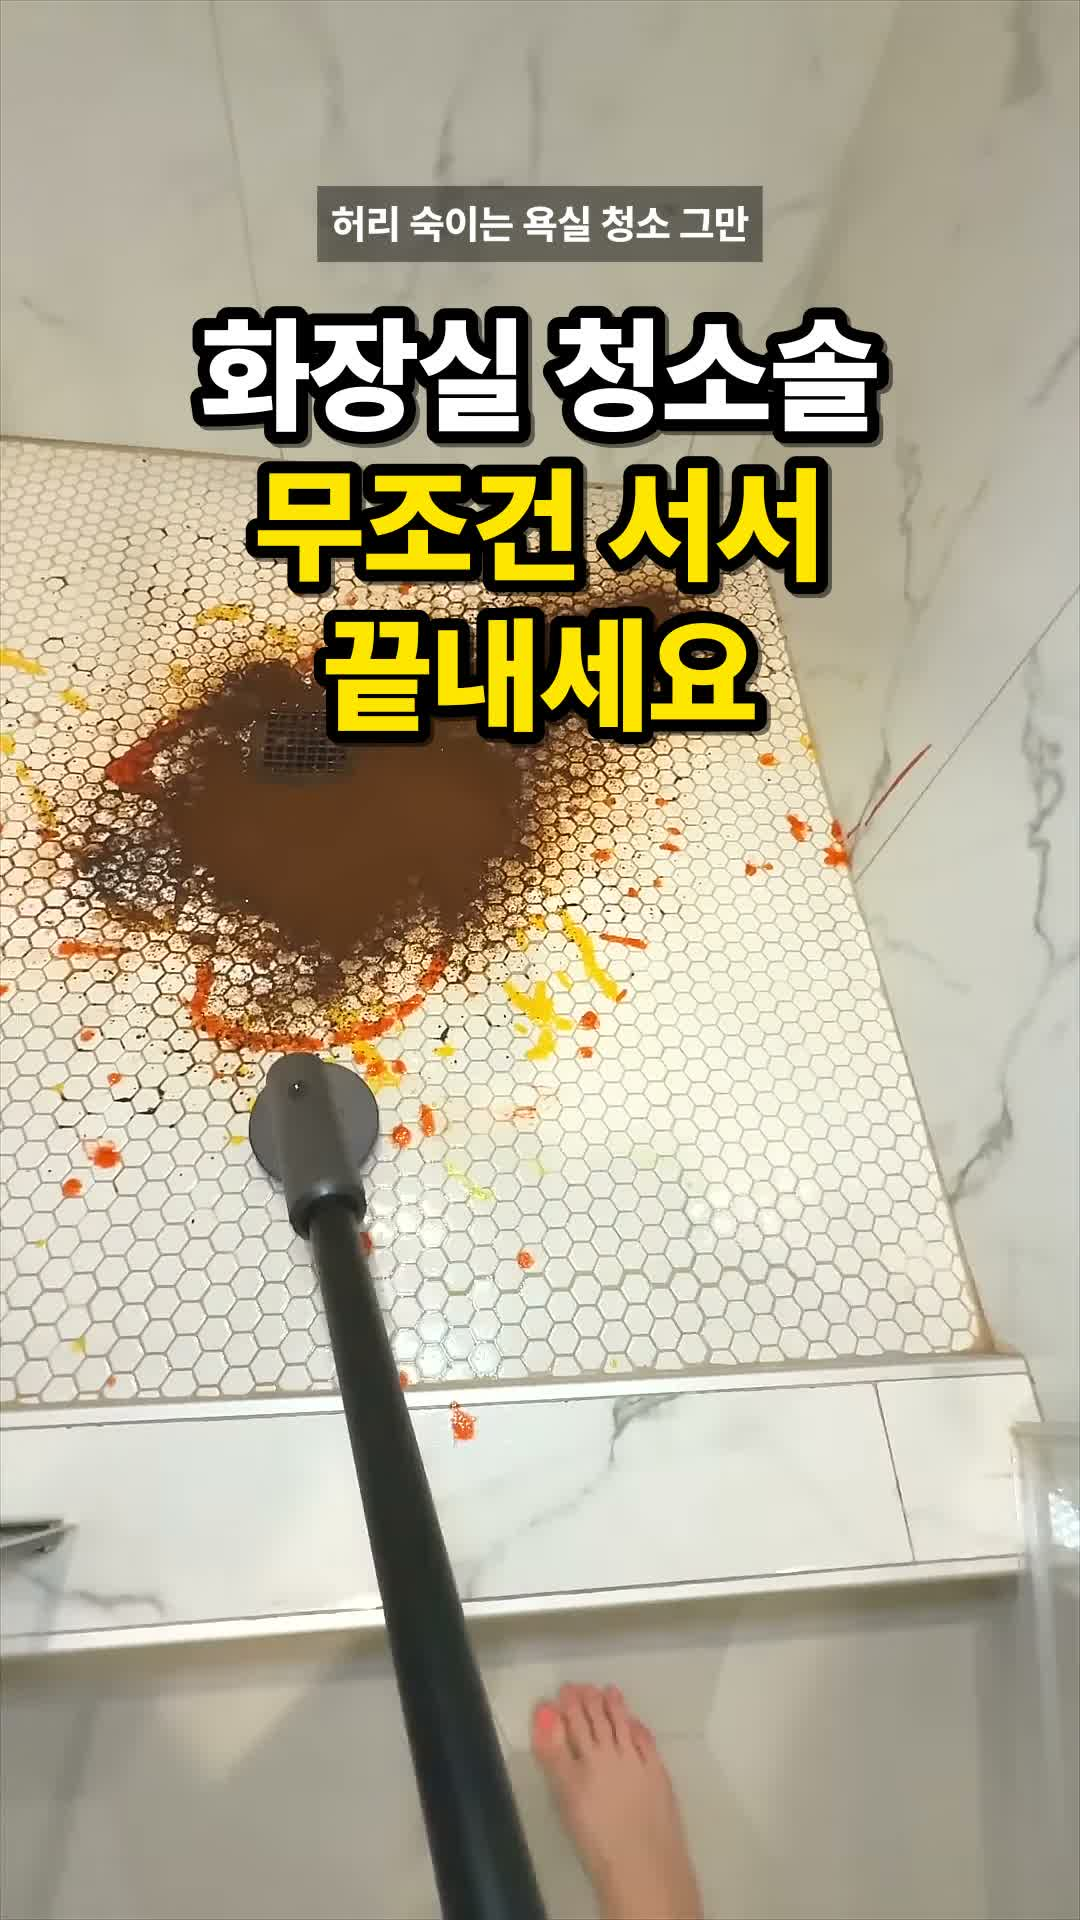
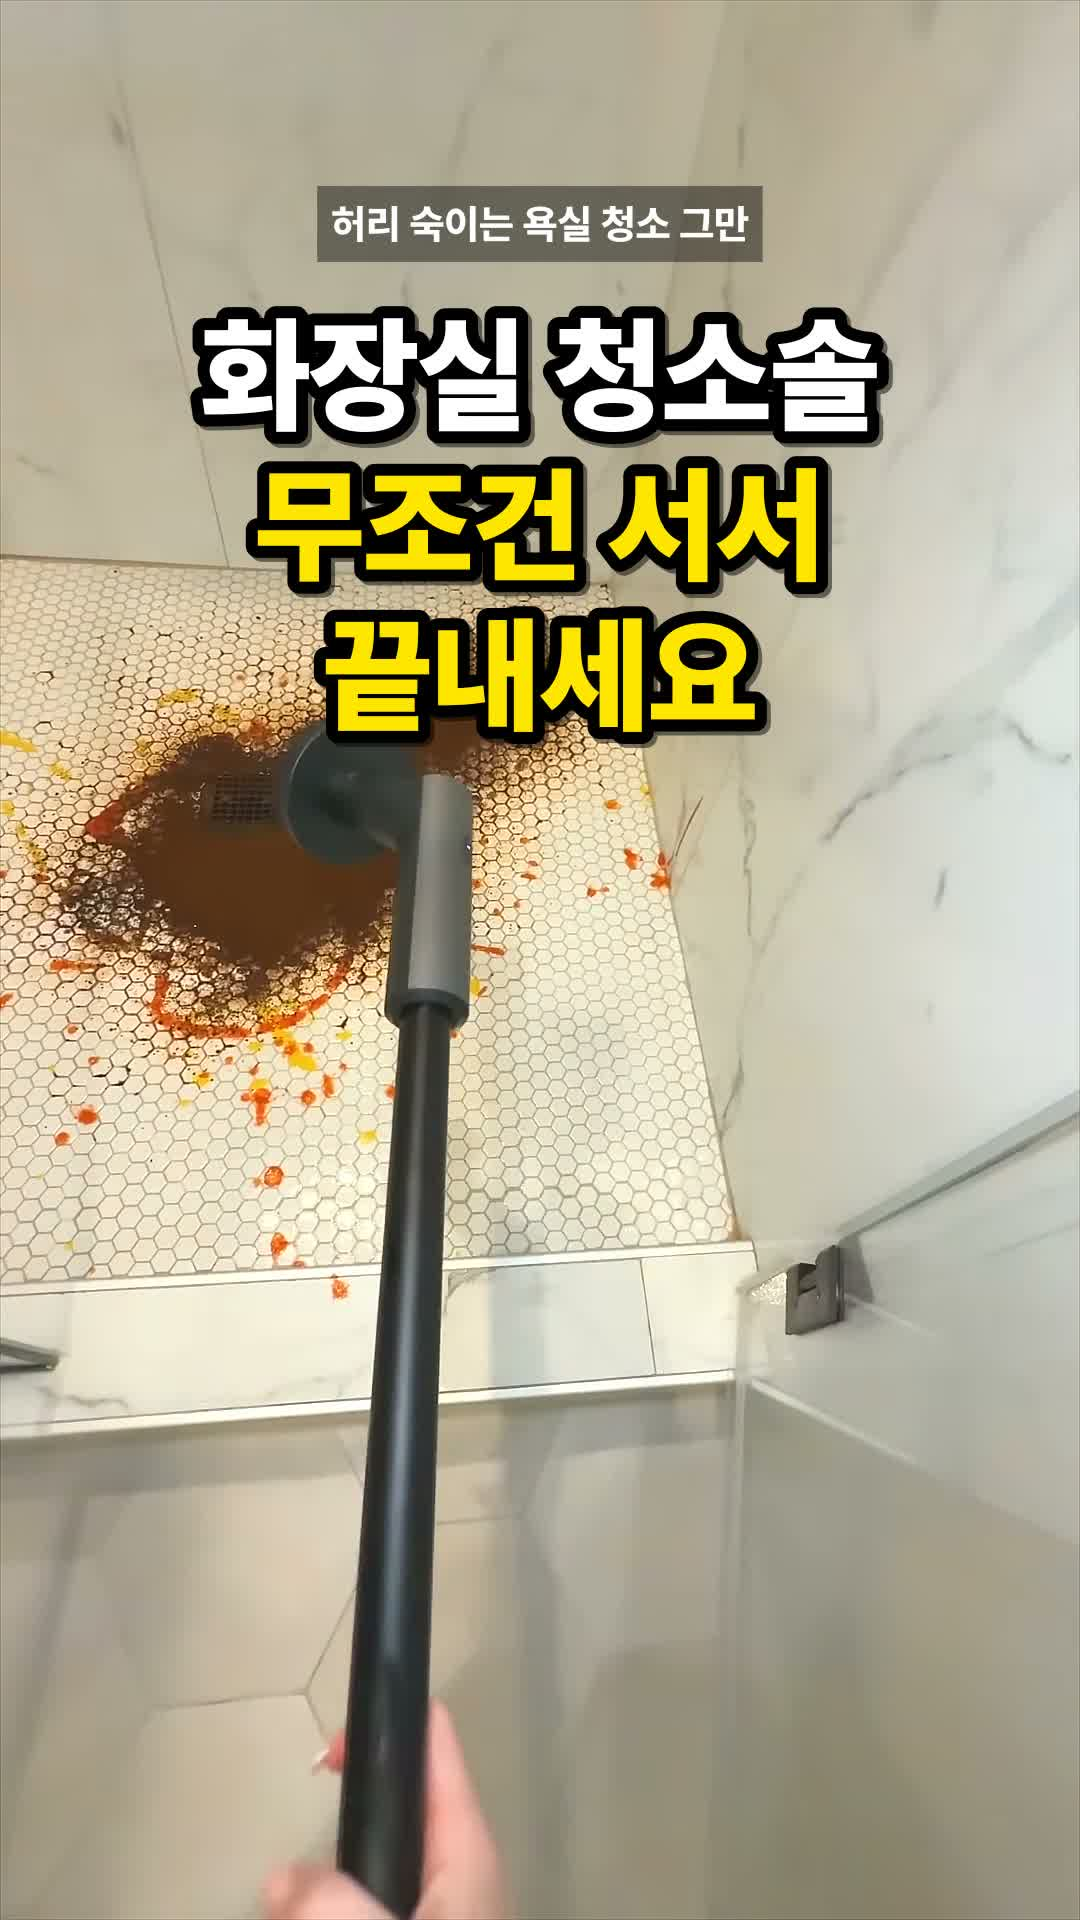
11/6 영상 교체(5b36pkNOwGM)

diff --git a/index.html b/index.html
@@ -11,7 +11,7 @@ main{max-width:540px;padding:16px 14px 26px}.brand{font-size:20px}.search{margin
 #clever-tools .purchase-conditions{border-top:0;padding:8px 0 0;font-size:12px;line-height:1.5;color:#705523}
 #clever-tools .purchase-conditions summary{font-size:12px;font-weight:650;min-height:30px}
 #clever-tools .purchase-conditions p{margin:6px 0 0}
-</style></head><body><main><div class="brand"><span class="mark">사기 전</span>사기전노트</div><div class="search"><input id="q" type="search" aria-label="상품 이름 검색" placeholder="영상 속 제품을 검색하세요 (예: 릴케이블)" autocomplete="off"><button id="clear-search" type="button" aria-label="검색어 지우기" hidden>지우기</button></div><nav class="views" aria-label="제품 찾기"><button type="button" id="latest-view" aria-pressed="true">전체 제품 (최신순)</button><button type="button" id="catalog-view" aria-pressed="false">영상별로 찾기</button></nav><p id="status" class="search-note" aria-live="polite" hidden></p><div id="catalog" hidden><div class="catalog-heading"><h1>다른 영상의 제품</h1><p id="video-count"></p></div><div id="video-list" class="video-list"></div></div><section data-theme="spin-scrubber" id="spin-scrubber" data-video-id="IfkddYGYvy0" data-video-title="화장실 청소솔, 무조건 서서 끝내세요" data-cover="scrub1106-cover.jpg" data-cover-kind="cover" data-keywords="청소솔 전동청소솔 욕실청소 화장실청소 욕실청소기 스핀스크러버 호토 HOTO 바닥청소 줄눈 샤워부스 세면대 긴손잡이" hidden data-visible-from="2026-11-06T19:00:00+09:00">
+</style></head><body><main><div class="brand"><span class="mark">사기 전</span>사기전노트</div><div class="search"><input id="q" type="search" aria-label="상품 이름 검색" placeholder="영상 속 제품을 검색하세요 (예: 릴케이블)" autocomplete="off"><button id="clear-search" type="button" aria-label="검색어 지우기" hidden>지우기</button></div><nav class="views" aria-label="제품 찾기"><button type="button" id="latest-view" aria-pressed="true">전체 제품 (최신순)</button><button type="button" id="catalog-view" aria-pressed="false">영상별로 찾기</button></nav><p id="status" class="search-note" aria-live="polite" hidden></p><div id="catalog" hidden><div class="catalog-heading"><h1>다른 영상의 제품</h1><p id="video-count"></p></div><div id="video-list" class="video-list"></div></div><section data-theme="spin-scrubber" id="spin-scrubber" data-video-id="5b36pkNOwGM" data-video-title="화장실 청소솔, 무조건 서서 끝내세요" data-cover="scrub1106-cover.jpg" data-cover-kind="cover" data-keywords="청소솔 전동청소솔 욕실청소 화장실청소 욕실청소기 스핀스크러버 호토 HOTO 바닥청소 줄눈 샤워부스 세면대 긴손잡이" hidden data-visible-from="2026-11-06T19:00:00+09:00">
 <h1>화장실 청소솔, 무조건 서서 끝내세요</h1><p class="intro">영상 속 제품이에요.</p>
 <article class="card" id="spin-scrubber-1"><div class="row"><div class="photo"><img src="scrub1106.jpg" alt="손잡이를 뺀 HOTO 전동 청소솔" width="1080" height="1920" loading="lazy"><span class="num">1</span></div><div><h2>HOTO 긴 손잡이 전동 욕실 청소솔</h2><p class="benefit">서서 바닥까지, 목이 꺾여 모서리까지, 손잡이 빼면 세면대·타일 틈새까지</p><p class="option">브러시 6종 세트 · 블랙</p><p class="shipping">판매자 배송 · 구매 옵션 확인</p></div></div><a class="cta" href="https://link.coupang.com/a/h910YSQKdg" target="_blank" rel="sponsored noopener">쿠팡에서 상품 보기</a></article>
 <details><summary>구성과 사용 조건 확인하기</summary><p>HOTO Electric Spin Scrubber(긴 손잡이형) 6종 브러시 세트예요. 쿠팡 상품평이 아직 적은 제품이라 판매자 정보와 구성을 꼭 확인해 주세요. 사용하는 세제는 바닥 재질에 맞게 골라 주세요.</p><p>영상 속 세제·청소 도구는 포함되지 않아요. 최종 가격·구성·배송·재고는 쿠팡 구매 화면에서 확인해 주세요.</p></details></section><section data-theme="pixeldrive" id="pixeldrive" data-video-id="O7rVpCrR3OE" data-video-title="전동 드라이버는 이렇게 생긴 거" data-cover="pixeldrive1105-cover.jpg" data-cover-kind="cover" data-keywords="전동 드라이버 전동드라이버 무선드라이버 스크류드라이버 호토 HOTO 픽셀드라이브 PixelDrive 토크 비트 가구조립 캣타워 공구" hidden data-visible-from="2026-11-05T19:00:00+09:00">
